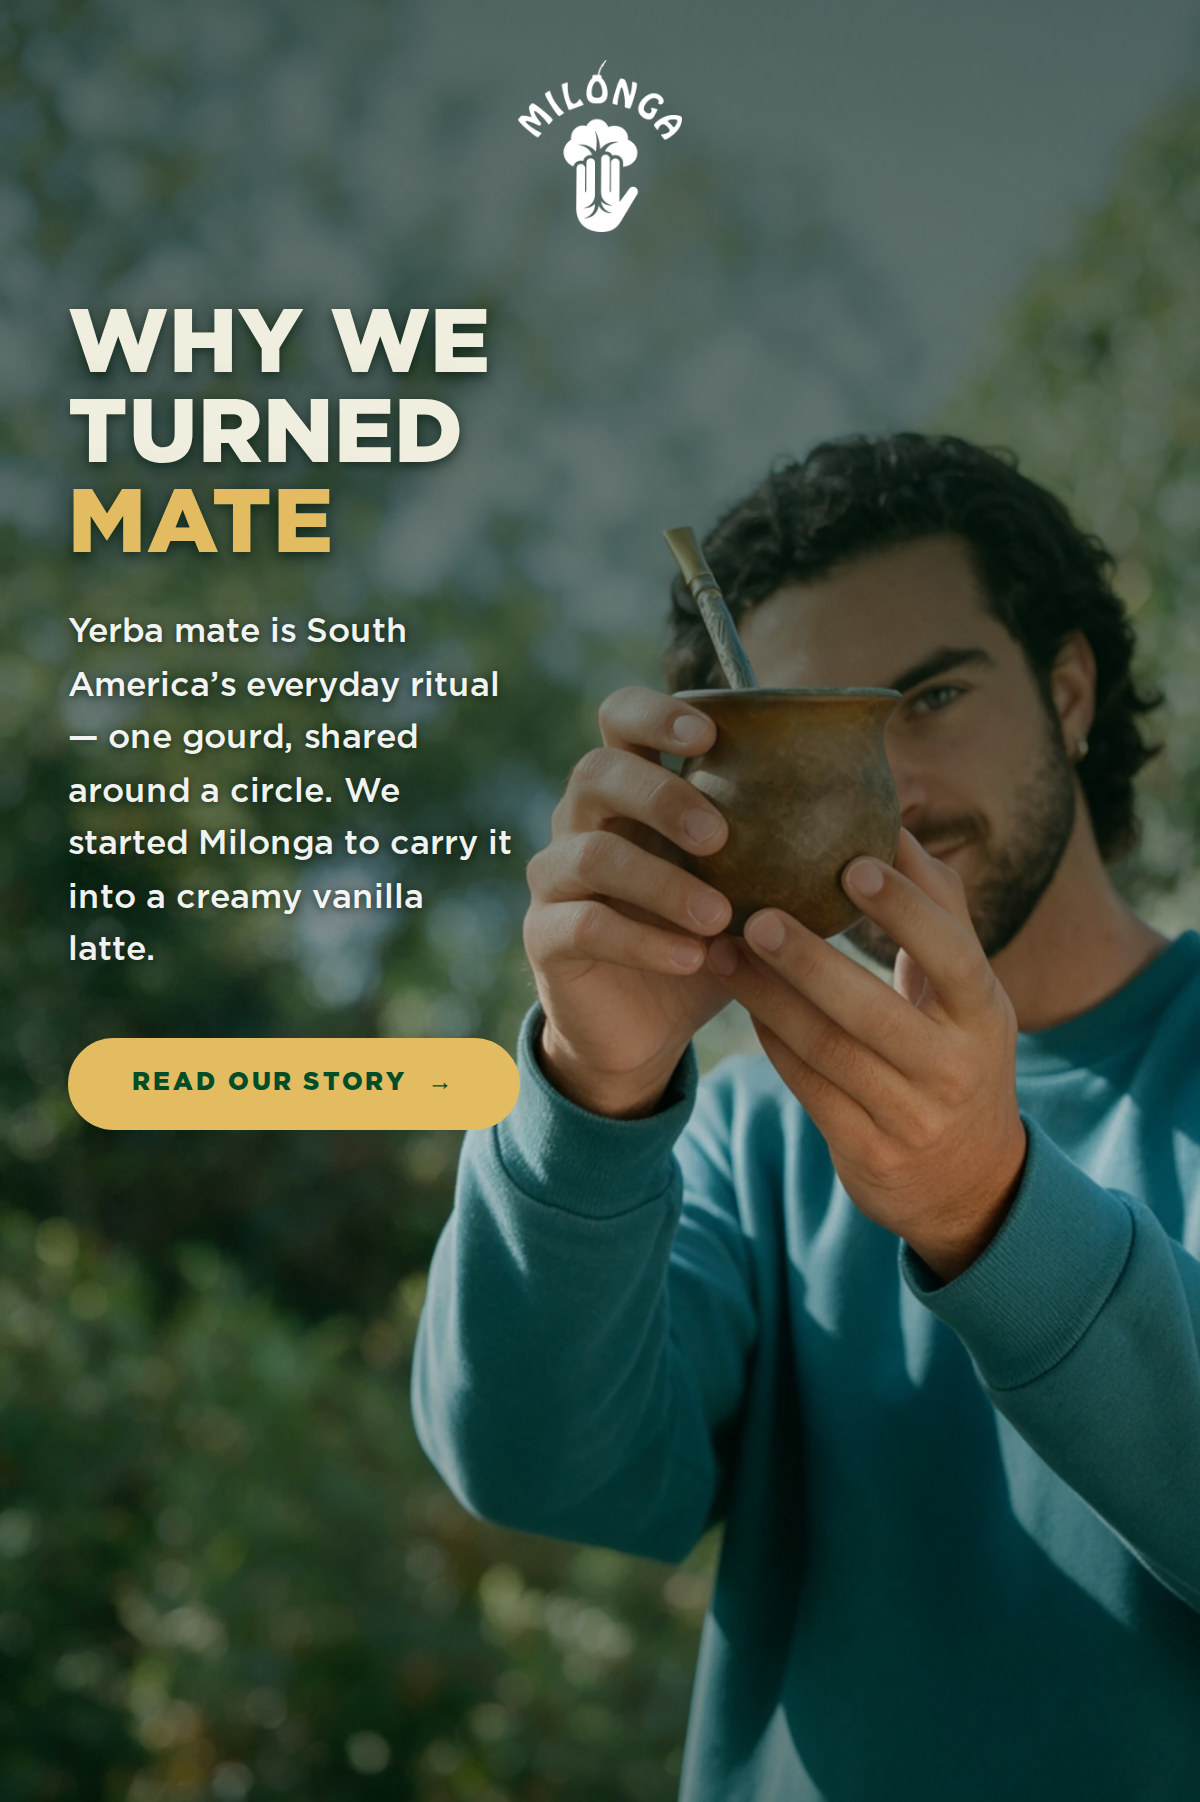
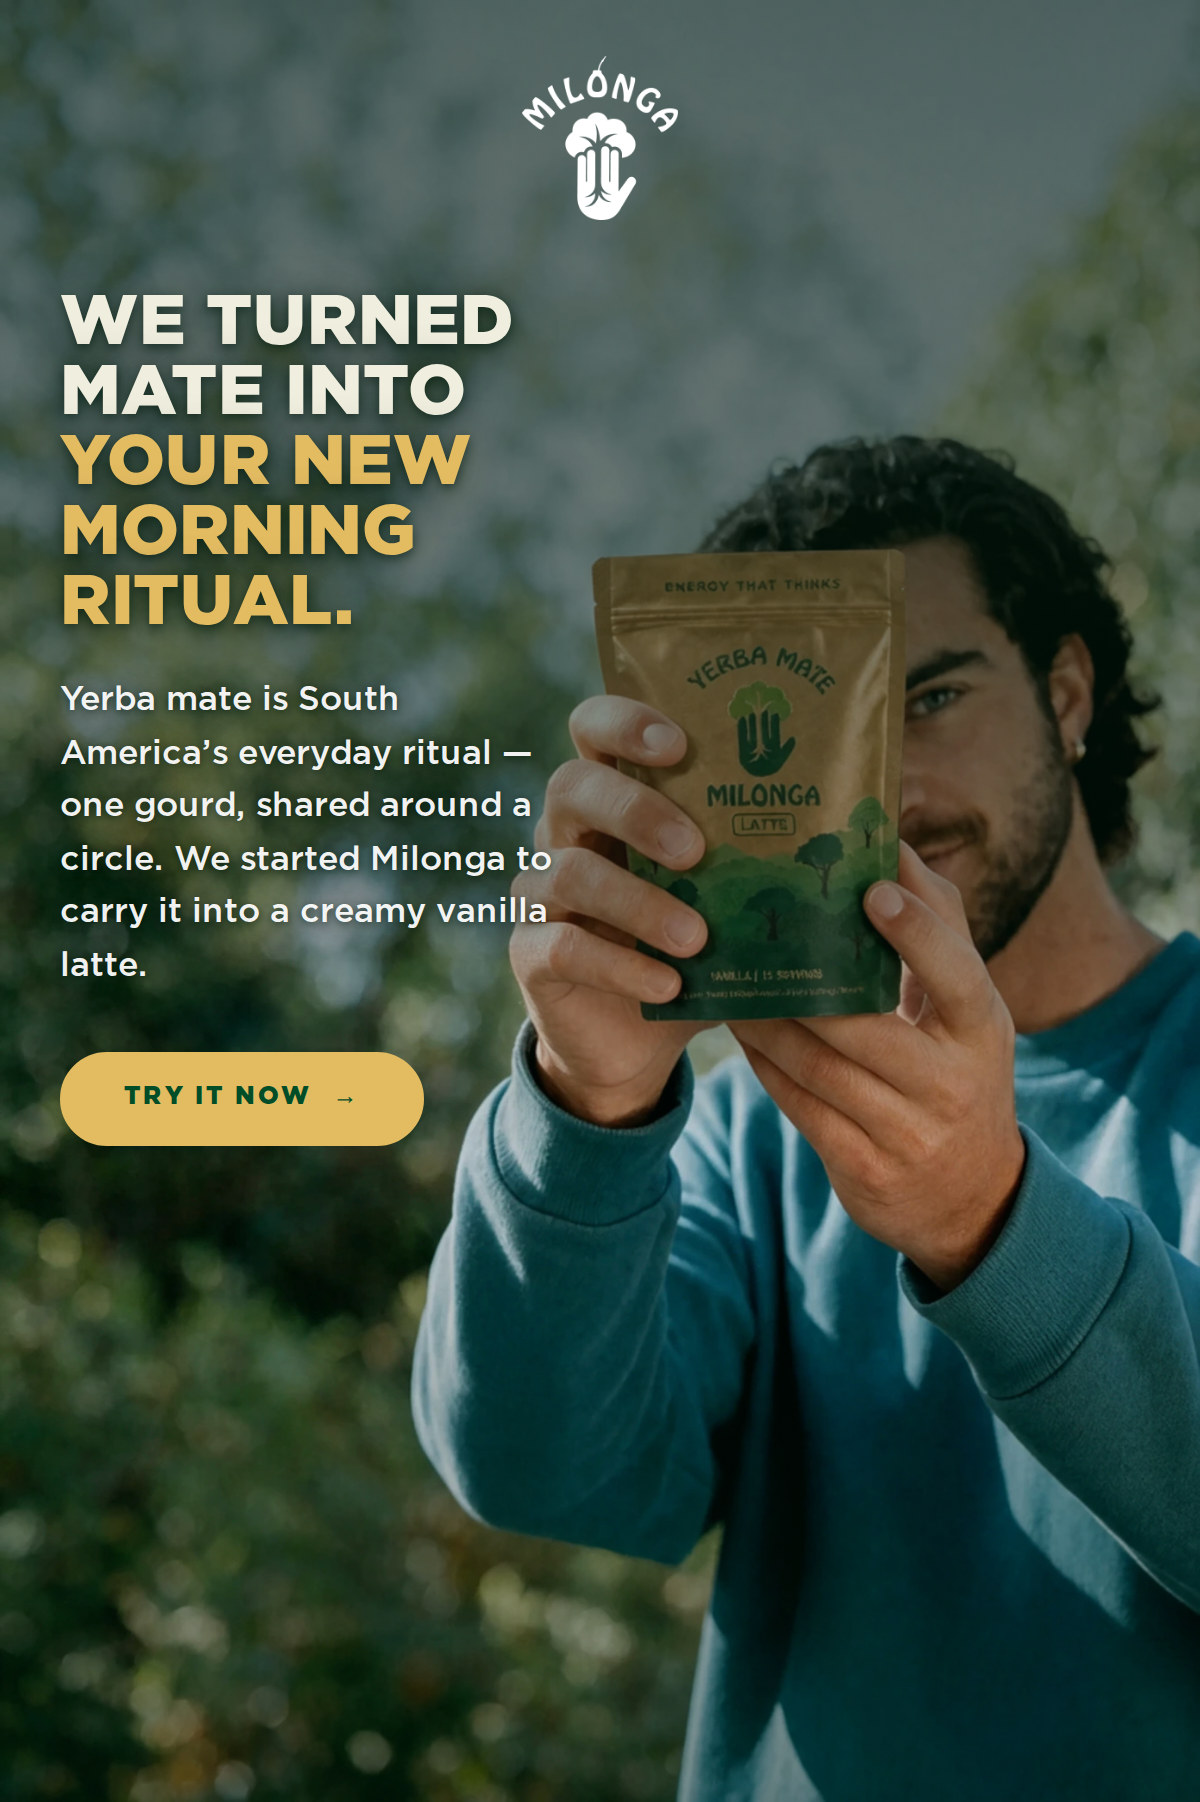
Swap section 1 to the pouch photograph and the new tagline
New background, in as supplied: native 1.5 ratio, nothing cropped or extended.
The gourd photograph and its file are gone. CTA is now "Try it now".

The tagline sets at 35px, which is smaller than the 45px the old three-word
headline ran at, and the reason is the column rather than the choice. He reaches
in to 41% of the width through the middle of the frame, leaving 250px at email
size. In that column "WE TURNED" measures 243px at 35 and 257px at 37 — so 35
is the largest size at which this tagline still sets two words to a line. The
next size up means one word per line and an eight-step stack, which reads as a
list rather than as a sentence. The type still fills its column edge to edge,
which is what makes it read big.

Split two lines beige, three gold, so the accent falls on "your new morning
ritual" rather than on the setup.

The wash stays weighted to the top: the band behind the wordmark measures
luminance 212 on the untouched file — near-white sky — and a white lockup would
vanish there. By 64% of the frame it is gone, so his face, his hands and the
pack are all clear of it.

Claude-Session: https://claude.ai/code/session_01NhEtXPnfeCJfN73SqBkUZ5

diff --git a/email-ds/emails/mate-latte-why.jsx b/email-ds/emails/mate-latte-why.jsx
@@ -8,49 +8,50 @@ const h = React.createElement;
 const IMG = {
   // The photograph exactly as supplied. Native 1.5 ratio, so the frame shows
   // all of it — nothing outpainted, nothing cropped.
-  why: '../public/product/mate-gourd-man.jpg',
+  why: '../public/product/mate-pouch-man.jpg',
 };
 
 function MateLatteWhy() {
   return h(M.EmailShell, { bg: 'beige' },
 
-    // ── 1 · WHY ───────────────────────────────────────────────────────────
-    // White wordmark centred on top, the headline stacked big down the left,
-    // a short paragraph and the button to the About page.
+    // ── 1 · THE TAGLINE ───────────────────────────────────────────────────
+    // White wordmark centred on top, the tagline stacked down the left in
+    // Gotham Black, a short paragraph, and the button.
     //
-    // THE SCRIM IS DOING ONE SPECIFIC JOB. Measured on the untouched picture,
-    // the band behind the wordmark reads luminance 212 — near-white sky — and
-    // the band behind the headline 187. White type and a white lockup would
-    // have been invisible in both. So the wash is weighted hard to the TOP,
-    // which is where the type is and where this photograph has nothing in it;
-    // by 64% of the frame it is gone, and he, his hands and the gourd are all
-    // below that line, untouched.
+    // SIZED TO THE COLUMN, NOT TO TASTE. He reaches in to 41% of the width
+    // through the middle of the frame, which leaves a 250px column at email
+    // size. In that column "WE TURNED" measures 243px at 35px and 257px at
+    // 37px — so 35 is the largest size at which this tagline still sets two
+    // words to a line. Going bigger means one word per line and an eight-step
+    // stack that reads as a list rather than a sentence.
+    //
+    // The wash is weighted hard to the top: measured on the untouched file the
+    // band behind the wordmark is luminance 212, near-white sky, so a white
+    // lockup would vanish there. By 64% of the frame the wash is gone, and his
+    // face, his hands and the pack are all below that line.
     h(M.T9Story, {
       src: IMG.why,
-      alt: 'Why we turned mate. A man outdoors holds a mate gourd and metal straw up to his face, framed by out-of-focus green trees. Yerba mate is South America’s everyday ritual, shared from one gourd around a circle — and Milonga carries it into a creamy vanilla latte. Read our story.',
+      alt: 'We turned mate into your new morning ritual. A man outdoors holds up a Milonga Yerba Mate Latte pouch in front of his face, framed by out-of-focus green trees. Yerba mate is South America’s everyday ritual, shared from one gourd around a circle. Try it now.',
       logo: true,
       logoTone: 'white',
-      logoHeight: 86,
+      logoHeight: 82,
       align: 'left',
-      line1: 'Why we turned',
-      line2: 'mate',
+      // Two lines beige, three gold — the break puts the accent on the payoff
+      // rather than on the setup.
+      line1: 'We turned mate into',
+      line2: 'your new morning ritual.',
       paras: [
         'Yerba mate is South America’s everyday ritual — one gourd, shared around a circle. We started Milonga to carry it into a creamy vanilla latte.',
       ],
-      cta: { label: 'Read our story', href: '#about', arrow: true },
+      cta: { label: 'Try it now', href: '#shop', arrow: true },
       ctaInline: true,
       // Native ratio: the frame is the picture, uncropped.
       ratio: 1.501,
-      size: 45,
-      top: 30,
-      // He reaches in to 43% of the width at the height the copy ends, so the
-      // column stops at 260px of 600. The headline sets three lines deep in
-      // that width, which is what makes it read big rather than wide — 48px
-      // rather than 52 because "WHY WE" needs 213px at this size and breaking
-      // a two-word phrase across two lines gains a step the stack does not need.
-      padLeft: 34,
-      padRight: 340,
-      measure: 226,
+      size: 35,
+      top: 28,
+      padLeft: 30,
+      padRight: 320,
+      measure: 250,
     })
   );
 }
